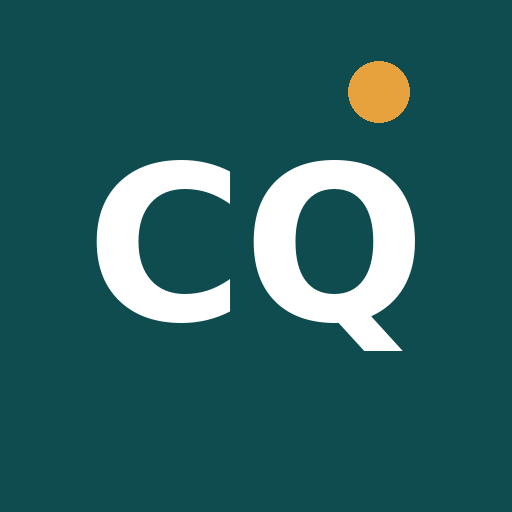
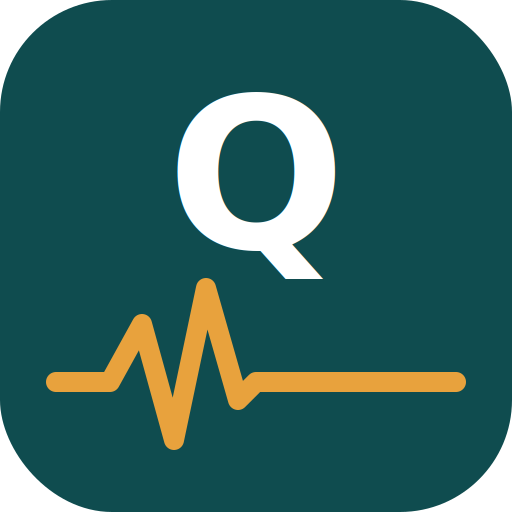
bug fix

diff --git a/clinic-queue/patients.html b/clinic-queue/patients.html
@@ -5,6 +5,7 @@
 <meta name="viewport" content="width=device-width, initial-scale=1.0" />
 <title>Patients — Clinic Queue</title>
 <link rel="manifest" href="manifest.json" />
+<link rel="icon" type="image/svg+xml" href="assets/icon.svg" />
 <link rel="stylesheet" href="css/styles.css" />
 <script>
   const t = localStorage.getItem("clinic-queue-theme") || "light";
@@ -19,7 +20,13 @@
 <body>
 <div class="app-shell">
   <header class="topbar">
-    <div class="brand"><span class="dot"></span> <span data-clinic-name>Clinic Queue</span></div>
+    <div class="brand"><svg xmlns="http://www.w3.org/2000/svg" viewBox="0 0 72 72" width="28" height="28" aria-hidden="true" style="flex-shrink:0;border-radius:6px;">
+  <rect width="72" height="72" rx="16" fill="white"/>
+  <text x="36" y="37" text-anchor="middle" font-size="28" font-weight="800" fill="#0F4C4F"
+    font-family="-apple-system,BlinkMacSystemFont,'Segoe UI',system-ui,sans-serif">Q</text>
+  <polyline points="8,56 15,56 19,48 23,64 27,44 31,60 35,56 64,56"
+    fill="none" stroke="#E8A23D" stroke-width="2.5" stroke-linecap="round" stroke-linejoin="round"/>
+</svg> <span data-clinic-name>Clinic Queue</span></div>
     <nav id="nav-links">
       <a href="reception.html">Reception</a>
       <a href="patients.html" class="active">Patients</a>
@@ -212,16 +219,54 @@ async function openDetail(patientId) {
   if (visits.length === 0) {
     histBox.innerHTML = '<p class="small muted">No visits recorded yet.</p>';
   } else {
-    histBox.innerHTML = visits.map((v) => `
-      <div style="padding:0.6rem 0;border-bottom:1px solid var(--paper-dim);">
-        <div class="flex-between">
-          <span><span class="token-tag" style="font-size:0.85rem;padding:0.2rem 0.5rem;">#${v.tokenNumber}</span> <span class="small muted" style="margin-left:0.5rem;">${fmtDate(v.visitDate)}</span></span>
-          <span class="badge badge-${v.status}">${v.status.replace("_"," ")}</span>
-        </div>
-        ${v.doctorNotes ? `<p class="small" style="margin-top:0.4rem;">${escapeHtml(v.doctorNotes)}</p>` : ""}
-        ${v.vitals ? `<p class="small muted">Wt ${v.vitals.weight || "—"}kg · Temp ${v.vitals.temperature || "—"}°F · BP ${v.vitals.bpSystolic || "—"}/${v.vitals.bpDiastolic || "—"}</p>` : ""}
-        ${v.fees ? `<p class="small muted">Fee collected: ₹${v.fees.total} (${v.fees.mode})</p>` : ""}
-      </div>`).join("");
+    histBox.innerHTML = visits.map((v) => {
+      // Normalise prescriptions — handles new array and legacy single-image field
+      const imgs = v.prescriptions && Array.isArray(v.prescriptions) && v.prescriptions.length > 0
+        ? v.prescriptions
+        : (v.prescription?.dataUrl ? [{ id: "legacy", pageNumber: 1, ...v.prescription }] : []);
+
+      const rxSection = imgs.length > 0
+        ? `<div style="margin-top:0.5rem;">
+             <p class="small" style="margin:0 0 0.4rem;font-weight:600;color:var(--teal-900);">
+               📋 ${imgs.length} prescription page(s)
+             </p>
+             <div style="display:flex;flex-wrap:wrap;gap:0.5rem;">
+               ${imgs.map((img, i) => `
+                 <div style="position:relative;width:90px;">
+                   <img src="${img.dataUrl}" alt="p.${img.pageNumber || i + 1}"
+                     style="width:90px;height:68px;object-fit:cover;border-radius:5px;border:1px solid var(--line);display:block;cursor:pointer;"
+                     onclick="this.parentElement.querySelector('.rx-lb').style.display='flex'" loading="lazy" />
+                   <span style="position:absolute;top:2px;left:3px;background:rgba(0,0,0,0.6);color:white;font-size:0.58rem;padding:1px 4px;border-radius:2px;">
+                     p.${img.pageNumber || i + 1}
+                   </span>
+                   <div class="rx-lb" style="display:none;position:fixed;inset:0;background:rgba(0,0,0,0.92);z-index:400;flex-direction:column;">
+                     <div style="display:flex;justify-content:flex-end;padding:0.6rem 0.75rem;flex-shrink:0;">
+                       <button onclick="this.closest('.rx-lb').style.display='none'"
+                         style="background:rgba(255,255,255,0.15);border:none;color:white;font-size:1.4rem;line-height:1;width:2.2rem;height:2.2rem;border-radius:50%;cursor:pointer;display:flex;align-items:center;justify-content:center;"
+                         aria-label="Close image preview">✕</button>
+                     </div>
+                     <div style="flex:1;overflow:auto;display:flex;align-items:center;justify-content:center;padding:0 1rem 1rem;">
+                       <img src="${img.dataUrl}" alt="Prescription page ${img.pageNumber || i + 1}"
+                         style="max-width:100%;border-radius:8px;touch-action:pinch-zoom;display:block;" />
+                     </div>
+                   </div>
+                 </div>`).join("")}
+             </div>
+           </div>`
+        : "";
+
+      return `
+        <div style="padding:0.6rem 0;border-bottom:1px solid var(--paper-dim);">
+          <div class="flex-between">
+            <span><span class="token-tag" style="font-size:0.85rem;padding:0.2rem 0.5rem;">#${v.tokenNumber}</span> <span class="small muted" style="margin-left:0.5rem;">${fmtDate(v.visitDate)}</span></span>
+            <span class="badge badge-${v.status}">${v.status.replace("_"," ")}</span>
+          </div>
+          ${v.doctorNotes ? `<p class="small" style="margin-top:0.4rem;">${escapeHtml(v.doctorNotes)}</p>` : ""}
+          ${v.vitals ? `<p class="small muted">Wt ${v.vitals.weight || "—"}kg · Temp ${v.vitals.temperature || "—"}°F · BP ${v.vitals.bpSystolic || "—"}/${v.vitals.bpDiastolic || "—"}</p>` : ""}
+          ${v.fees ? `<p class="small muted">Fee collected: ₹${v.fees.total} (${v.fees.mode})</p>` : ""}
+          ${rxSection}
+        </div>`;
+    }).join("");
   }
   document.getElementById("detail-modal").style.display = "flex";
 }

diff --git a/clinic-queue/reception.html b/clinic-queue/reception.html
@@ -5,6 +5,7 @@
 <meta name="viewport" content="width=device-width, initial-scale=1.0" />
 <title>Reception — Clinic Queue</title>
 <link rel="manifest" href="manifest.json" />
+<link rel="icon" type="image/svg+xml" href="assets/icon.svg" />
 <link rel="stylesheet" href="css/styles.css" />
 <script>
   // Apply stored theme immediately before first paint to avoid flash
@@ -20,7 +21,13 @@
 <body>
 <div class="app-shell">
   <header class="topbar">
-    <div class="brand"><span class="dot"></span> <span data-clinic-name>Clinic Queue</span></div>
+    <div class="brand"><svg xmlns="http://www.w3.org/2000/svg" viewBox="0 0 72 72" width="28" height="28" aria-hidden="true" style="flex-shrink:0;border-radius:6px;">
+  <rect width="72" height="72" rx="16" fill="white"/>
+  <text x="36" y="37" text-anchor="middle" font-size="28" font-weight="800" fill="#0F4C4F"
+    font-family="-apple-system,BlinkMacSystemFont,'Segoe UI',system-ui,sans-serif">Q</text>
+  <polyline points="8,56 15,56 19,48 23,64 27,44 31,60 35,56 64,56"
+    fill="none" stroke="#E8A23D" stroke-width="2.5" stroke-linecap="round" stroke-linejoin="round"/>
+</svg> <span data-clinic-name>Clinic Queue</span></div>
     <nav>
       <a href="reception.html" class="active">Reception</a>
       <a href="patients.html">Patients</a>
@@ -164,7 +171,7 @@
     <div class="field"><label>Other charges (₹)</label><input id="b-other-fee" type="number" value="0" /></div>
     <div class="field">
       <label>Payment mode</label>
-      <select id="b-mode"><option>Cash</option><option>Card</option><option>UPI</option><option>Other</option></select>
+      <select id="b-mode"><option>Cash</option><option>Card</option><option selected>UPI</option><option>Other</option></select>
     </div>
     <p class="flex-between"><strong>Total</strong> <strong id="b-total">₹0</strong></p>
     <div class="flex-between">
@@ -231,7 +238,7 @@
     <div class="field"><label>Other charges (₹)</label><input id="af-other-fee" type="number" value="0" /></div>
     <div class="field">
       <label>Payment mode</label>
-      <select id="af-mode"><option>Cash</option><option>Card</option><option>UPI</option><option>Other</option></select>
+      <select id="af-mode"><option>Cash</option><option>Card</option><option selected>UPI</option><option>Other</option></select>
     </div>
     <p class="flex-between"><strong>Total</strong> <strong id="af-total">₹0</strong></p>
     <div class="flex-between">

diff --git a/clinic-queue/board.html b/clinic-queue/board.html
@@ -5,13 +5,20 @@
 <meta name="viewport" content="width=device-width, initial-scale=1.0" />
 <title>Queue Board — Clinic</title>
 <link rel="manifest" href="manifest.json" />
+<link rel="icon" type="image/svg+xml" href="assets/icon.svg" />
 <link rel="stylesheet" href="css/styles.css" />
 <link rel="stylesheet" href="css/board.css" />
 </head>
 <body class="board-body">
 
   <div class="board-header">
-    <div class="brand"><span class="dot"></span> <span data-clinic-name data-clinic-name-suffix=" Board">Clinic Queue Board</span></div>
+    <div class="brand"><svg xmlns="http://www.w3.org/2000/svg" viewBox="0 0 72 72" width="28" height="28" aria-hidden="true" style="flex-shrink:0;border-radius:6px;">
+  <rect width="72" height="72" rx="16" fill="white"/>
+  <text x="36" y="37" text-anchor="middle" font-size="28" font-weight="800" fill="#0F4C4F"
+    font-family="-apple-system,BlinkMacSystemFont,'Segoe UI',system-ui,sans-serif">Q</text>
+  <polyline points="8,56 15,56 19,48 23,64 27,44 31,60 35,56 64,56"
+    fill="none" stroke="#E8A23D" stroke-width="2.5" stroke-linecap="round" stroke-linejoin="round"/>
+</svg> <span data-clinic-name data-clinic-name-suffix=" Board">Clinic Queue Board</span></div>
     <div class="board-clock">
       <div class="time" id="clock-time">--:--</div>
       <div class="date" id="clock-date">—</div>

diff --git a/clinic-queue/admin.html b/clinic-queue/admin.html
@@ -5,6 +5,7 @@
 <meta name="viewport" content="width=device-width, initial-scale=1.0" />
 <title>Admin Setup — Clinic Queue</title>
 <link rel="manifest" href="manifest.json" />
+<link rel="icon" type="image/svg+xml" href="assets/icon.svg" />
 <link rel="stylesheet" href="css/styles.css" />
 <script>
   const t = localStorage.getItem("clinic-queue-theme") || "light";
@@ -19,7 +20,13 @@
 <body>
 <div class="app-shell">
   <header class="topbar">
-    <div class="brand"><span class="dot"></span> <span data-clinic-name>Clinic Queue</span></div>
+    <div class="brand"><svg xmlns="http://www.w3.org/2000/svg" viewBox="0 0 72 72" width="28" height="28" aria-hidden="true" style="flex-shrink:0;border-radius:6px;">
+  <rect width="72" height="72" rx="16" fill="white"/>
+  <text x="36" y="37" text-anchor="middle" font-size="28" font-weight="800" fill="#0F4C4F"
+    font-family="-apple-system,BlinkMacSystemFont,'Segoe UI',system-ui,sans-serif">Q</text>
+  <polyline points="8,56 15,56 19,48 23,64 27,44 31,60 35,56 64,56"
+    fill="none" stroke="#E8A23D" stroke-width="2.5" stroke-linecap="round" stroke-linejoin="round"/>
+</svg> <span data-clinic-name>Clinic Queue</span></div>
     <nav>
       <a href="admin.html" class="active">Admin Setup</a>
       <a href="reception.html">Reception</a>

diff --git a/clinic-queue/billing.html b/clinic-queue/billing.html
@@ -5,6 +5,7 @@
 <meta name="viewport" content="width=device-width, initial-scale=1.0" />
 <title>Billing — Clinic Queue</title>
 <link rel="manifest" href="manifest.json" />
+<link rel="icon" type="image/svg+xml" href="assets/icon.svg" />
 <link rel="stylesheet" href="css/styles.css" />
 <script>
   const t = localStorage.getItem("clinic-queue-theme") || "light";
@@ -19,7 +20,13 @@
 <body>
 <div class="app-shell">
   <header class="topbar">
-    <div class="brand"><span class="dot"></span> <span data-clinic-name>Clinic Queue</span></div>
+    <div class="brand"><svg xmlns="http://www.w3.org/2000/svg" viewBox="0 0 72 72" width="28" height="28" aria-hidden="true" style="flex-shrink:0;border-radius:6px;">
+  <rect width="72" height="72" rx="16" fill="white"/>
+  <text x="36" y="37" text-anchor="middle" font-size="28" font-weight="800" fill="#0F4C4F"
+    font-family="-apple-system,BlinkMacSystemFont,'Segoe UI',system-ui,sans-serif">Q</text>
+  <polyline points="8,56 15,56 19,48 23,64 27,44 31,60 35,56 64,56"
+    fill="none" stroke="#E8A23D" stroke-width="2.5" stroke-linecap="round" stroke-linejoin="round"/>
+</svg> <span data-clinic-name>Clinic Queue</span></div>
     <nav id="nav-links">
       <a href="reception.html">Reception</a>
       <a href="patients.html">Patients</a>

diff --git a/clinic-queue/self-service.html b/clinic-queue/self-service.html
@@ -5,12 +5,19 @@
 <meta name="viewport" content="width=device-width, initial-scale=1.0" />
 <title>Book a token — Clinic Queue</title>
 <link rel="manifest" href="manifest.json" />
+<link rel="icon" type="image/svg+xml" href="assets/icon.svg" />
 <link rel="stylesheet" href="css/styles.css" />
 </head>
 <body>
   <div class="login-wrap" style="align-items:flex-start;padding-top:3rem;">
     <div class="login-card" style="max-width:460px;">
-      <div class="brand"><span class="dot"></span> <span data-clinic-name>Clinic Queue</span></div>
+      <div class="brand"><svg xmlns="http://www.w3.org/2000/svg" viewBox="0 0 72 72" width="28" height="28" aria-hidden="true" style="flex-shrink:0;border-radius:6px;">
+  <rect width="72" height="72" rx="16" fill="white"/>
+  <text x="36" y="37" text-anchor="middle" font-size="28" font-weight="800" fill="#0F4C4F"
+    font-family="-apple-system,BlinkMacSystemFont,'Segoe UI',system-ui,sans-serif">Q</text>
+  <polyline points="8,56 15,56 19,48 23,64 27,44 31,60 35,56 64,56"
+    fill="none" stroke="#E8A23D" stroke-width="2.5" stroke-linecap="round" stroke-linejoin="round"/>
+</svg> <span data-clinic-name>Clinic Queue</span></div>
       <p class="sub">Book your token before you reach the reception desk.</p>
 
       <div id="form-view">

diff --git a/clinic-queue/doctor.html b/clinic-queue/doctor.html
@@ -5,6 +5,7 @@
 <meta name="viewport" content="width=device-width, initial-scale=1.0" />
 <title>Doctor — Clinic Queue</title>
 <link rel="manifest" href="manifest.json" />
+<link rel="icon" type="image/svg+xml" href="assets/icon.svg" />
 <link rel="stylesheet" href="css/styles.css" />
 <script>
   const t = localStorage.getItem("clinic-queue-theme") || "light";
@@ -19,7 +20,13 @@
 <body>
 <div class="app-shell">
   <header class="topbar">
-    <div class="brand"><span class="dot"></span> <span data-clinic-name>Clinic Queue</span></div>
+    <div class="brand"><svg xmlns="http://www.w3.org/2000/svg" viewBox="0 0 72 72" width="28" height="28" aria-hidden="true" style="flex-shrink:0;border-radius:6px;">
+  <rect width="72" height="72" rx="16" fill="white"/>
+  <text x="36" y="37" text-anchor="middle" font-size="28" font-weight="800" fill="#0F4C4F"
+    font-family="-apple-system,BlinkMacSystemFont,'Segoe UI',system-ui,sans-serif">Q</text>
+  <polyline points="8,56 15,56 19,48 23,64 27,44 31,60 35,56 64,56"
+    fill="none" stroke="#E8A23D" stroke-width="2.5" stroke-linecap="round" stroke-linejoin="round"/>
+</svg> <span data-clinic-name>Clinic Queue</span></div>
     <nav>
       <a href="doctor.html" class="active">My Queue</a>
       <a href="patients.html">Patients</a>

diff --git a/clinic-queue/index.html b/clinic-queue/index.html
@@ -5,12 +5,19 @@
 <meta name="viewport" content="width=device-width, initial-scale=1.0" />
 <title>Sign in — Clinic Queue</title>
 <link rel="manifest" href="manifest.json" />
+<link rel="icon" type="image/svg+xml" href="assets/icon.svg" />
 <link rel="stylesheet" href="css/styles.css" />
 </head>
 <body>
   <div class="login-wrap">
     <div class="login-card">
-      <div class="brand"><span class="dot"></span> <span data-clinic-name>Clinic Queue</span></div>
+      <div class="brand"><svg xmlns="http://www.w3.org/2000/svg" viewBox="0 0 72 72" width="40" height="40" aria-hidden="true" style="flex-shrink:0;border-radius:9px;">
+  <rect width="72" height="72" rx="16" fill="#0F4C4F"/>
+  <text x="36" y="37" text-anchor="middle" font-size="28" font-weight="800" fill="white"
+    font-family="-apple-system,BlinkMacSystemFont,'Segoe UI',system-ui,sans-serif">Q</text>
+  <polyline points="8,56 15,56 19,48 23,64 27,44 31,60 35,56 64,56"
+    fill="none" stroke="#E8A23D" stroke-width="2.5" stroke-linecap="round" stroke-linejoin="round"/>
+</svg> <span data-clinic-name>Clinic Queue</span></div>
       <p class="sub">Sign in to manage the patient queue.</p>
       <form id="login-form">
         <div class="field">

diff --git a/clinic-queue/css/styles.css b/clinic-queue/css/styles.css
@@ -296,7 +296,7 @@ tr.row-flash { animation: flash-row 1.2s ease; }
   background: var(--paper); border-radius: 14px; padding: 2.25rem 2rem;
   width: 100%; max-width: 380px;
 }
-.login-card .brand { color: var(--teal-900); font-weight: 800; font-size: 1.3rem; margin-bottom: 0.2rem; display:flex; align-items:center; gap:0.5rem;}
+.login-card .brand { color: var(--teal-900); font-weight: 800; font-size: 1.3rem; margin-bottom: 0.2rem; display:flex; align-items:center; gap:0.6rem;}
 .login-card .brand .dot { width: 10px; height: 10px; border-radius: 50%; background: var(--amber-500); }
 .login-card p.sub { color: var(--ink-soft); font-size: 0.88rem; margin: 0 0 1.5rem; }
 .error-msg { color: var(--clay-500); font-size: 0.85rem; margin-top: 0.6rem; }

diff --git a/clinic-queue/sw.js b/clinic-queue/sw.js
@@ -1,9 +1,10 @@
-const CACHE_NAME = "clinic-queue-v30";
+const CACHE_NAME = "clinic-queue-v32";
 const SHELL_FILES = [
   "./index.html", "./reception.html", "./doctor.html", "./board.html",
   "./self-service.html", "./admin.html", "./patients.html", "./billing.html",
   "./patient-card.html",
   "./css/styles.css", "./css/board.css", "./manifest.json",
+  "./assets/icon.svg", "./assets/icon-192.png", "./assets/icon-512.png",
   "./assets/self-service-qr.svg", "./js/qrcode-lib.js", "./js/barcode-scanner.js",
   "./js/theme.js"
 ];

diff --git a/clinic-queue/patient-card.html b/clinic-queue/patient-card.html
@@ -4,6 +4,7 @@
 <meta charset="UTF-8" />
 <meta name="viewport" content="width=device-width, initial-scale=1.0" />
 <title>Patient Card</title>
+<link rel="icon" type="image/svg+xml" href="assets/icon.svg" />
 <link rel="stylesheet" href="css/styles.css" />
 <style>
   body { background: #e8e8e8; }
